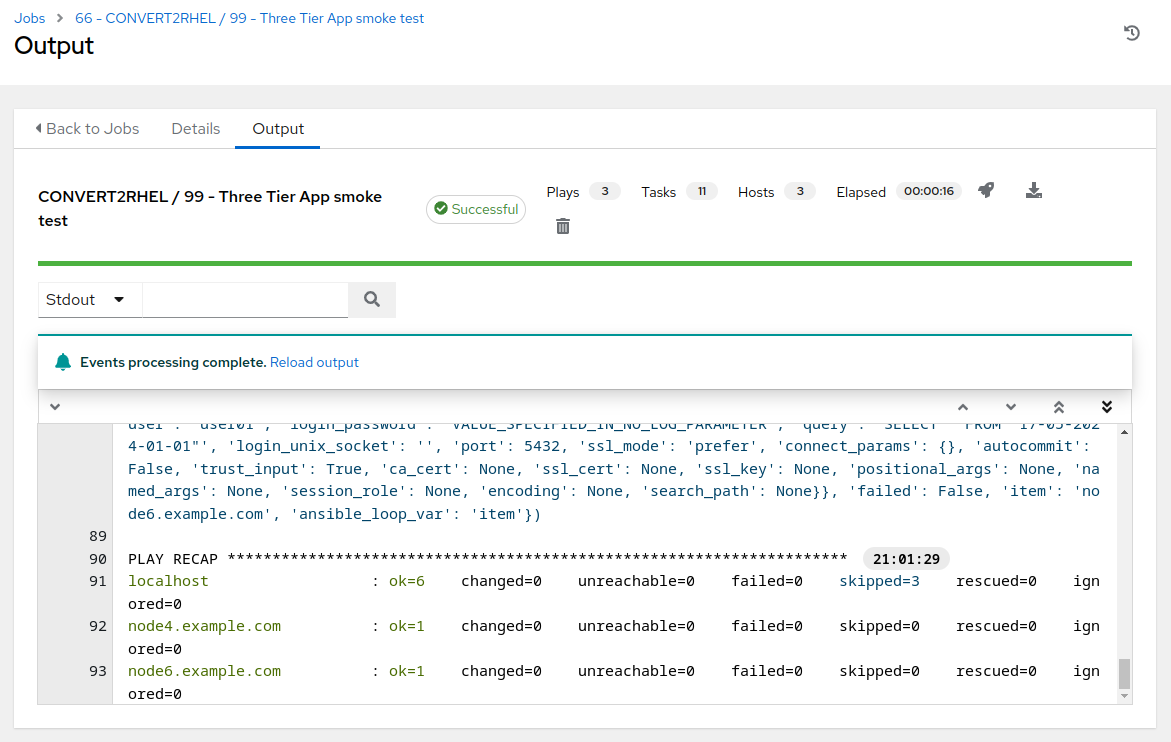
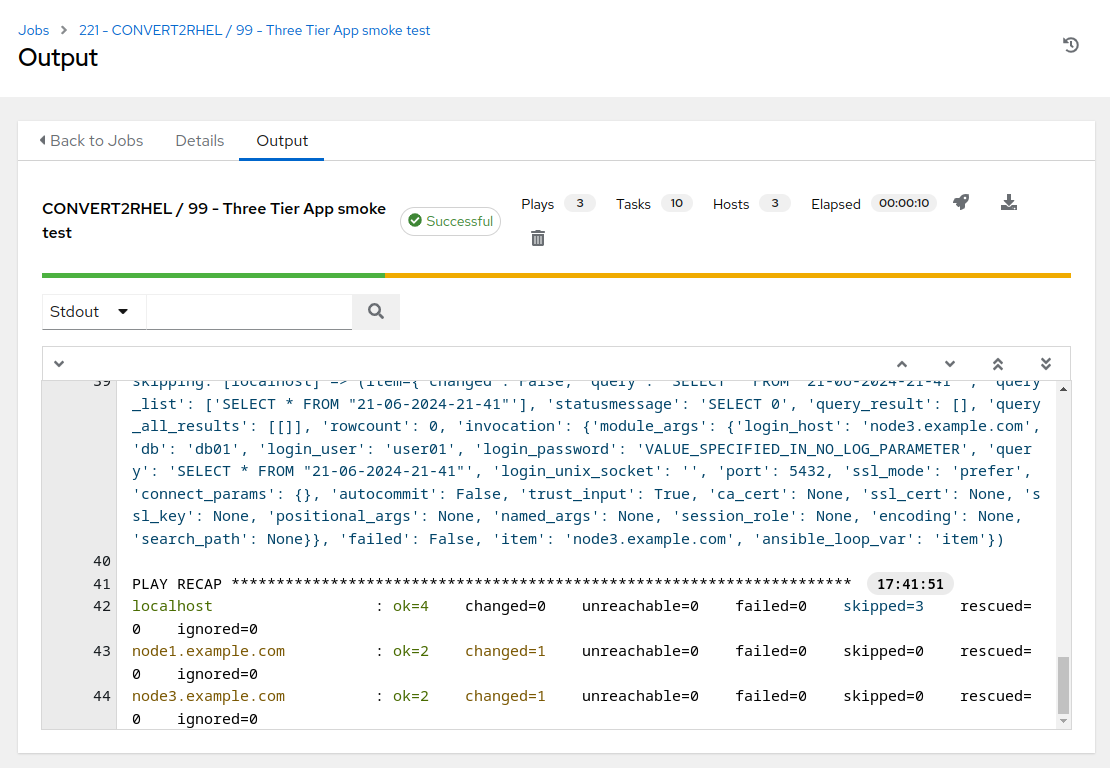
Round 2 of exercise updates.

diff --git a/exercises/rhdp_auto_satellite/4-ripu/1.2-three-tier-app/README.md b/exercises/rhdp_auto_satellite/4-ripu/1.2-three-tier-app/README.md
@@ -166,7 +166,7 @@ Now that our three tier application is installed, let's cover the application st
 
 node1.example.com proxies incoming requests on port 80 and forwards them to port 8080 on node2.example.com, where Tomcat is running a simple java application that, upon an incoming request to the servlet, creates a table in the PostgreSQL database on node3.example.com, with the table name being constructed from the date and time of the request. For example:
 
-`Table "06-06-2024-18-00" has been created!`
+`Table "21-06-2024-20-52" has been created!`
 
 If you'd like to manually test the application stack, you can run the following commands by switching your browser to Visual Studio Code terminal, then from `ansible-1` prompt:
 
@@ -186,7 +186,13 @@ The above will make a request to the Tomcat servlet, where the database table de
 
 - Use the side pane menu on the left to select **Templates**.
 
-- Click ![launch](images/convert2rhel-aap2-launch.png) to the right of **CONVERT2RHEL / 99 - Three Tier App smoke test** to launch the application test job.  This should take ~15 seconds to complete.
+- Click ![launch](images/convert2rhel-aap2-launch.png) to the right of **CONVERT2RHEL / 99 - Three Tier App smoke test** to launch the application test job.
+
+  ![3tier-smoke-test-select](images/convert2rhel-3tier-smoke-select.png)
+
+- For `Choose application stack name`, remember earlier in the inventory tags section, "app_stack_name" was set to "stack01", so we choose "stack01" from the drop down selection. Then click **Next**, and then on the preview screen, click **Launch**.
+
+This should take ~15 seconds to complete.
 
   ![3tier-smoke-test-output](images/convert2rhel-3tier-smoke-output.png)
 
